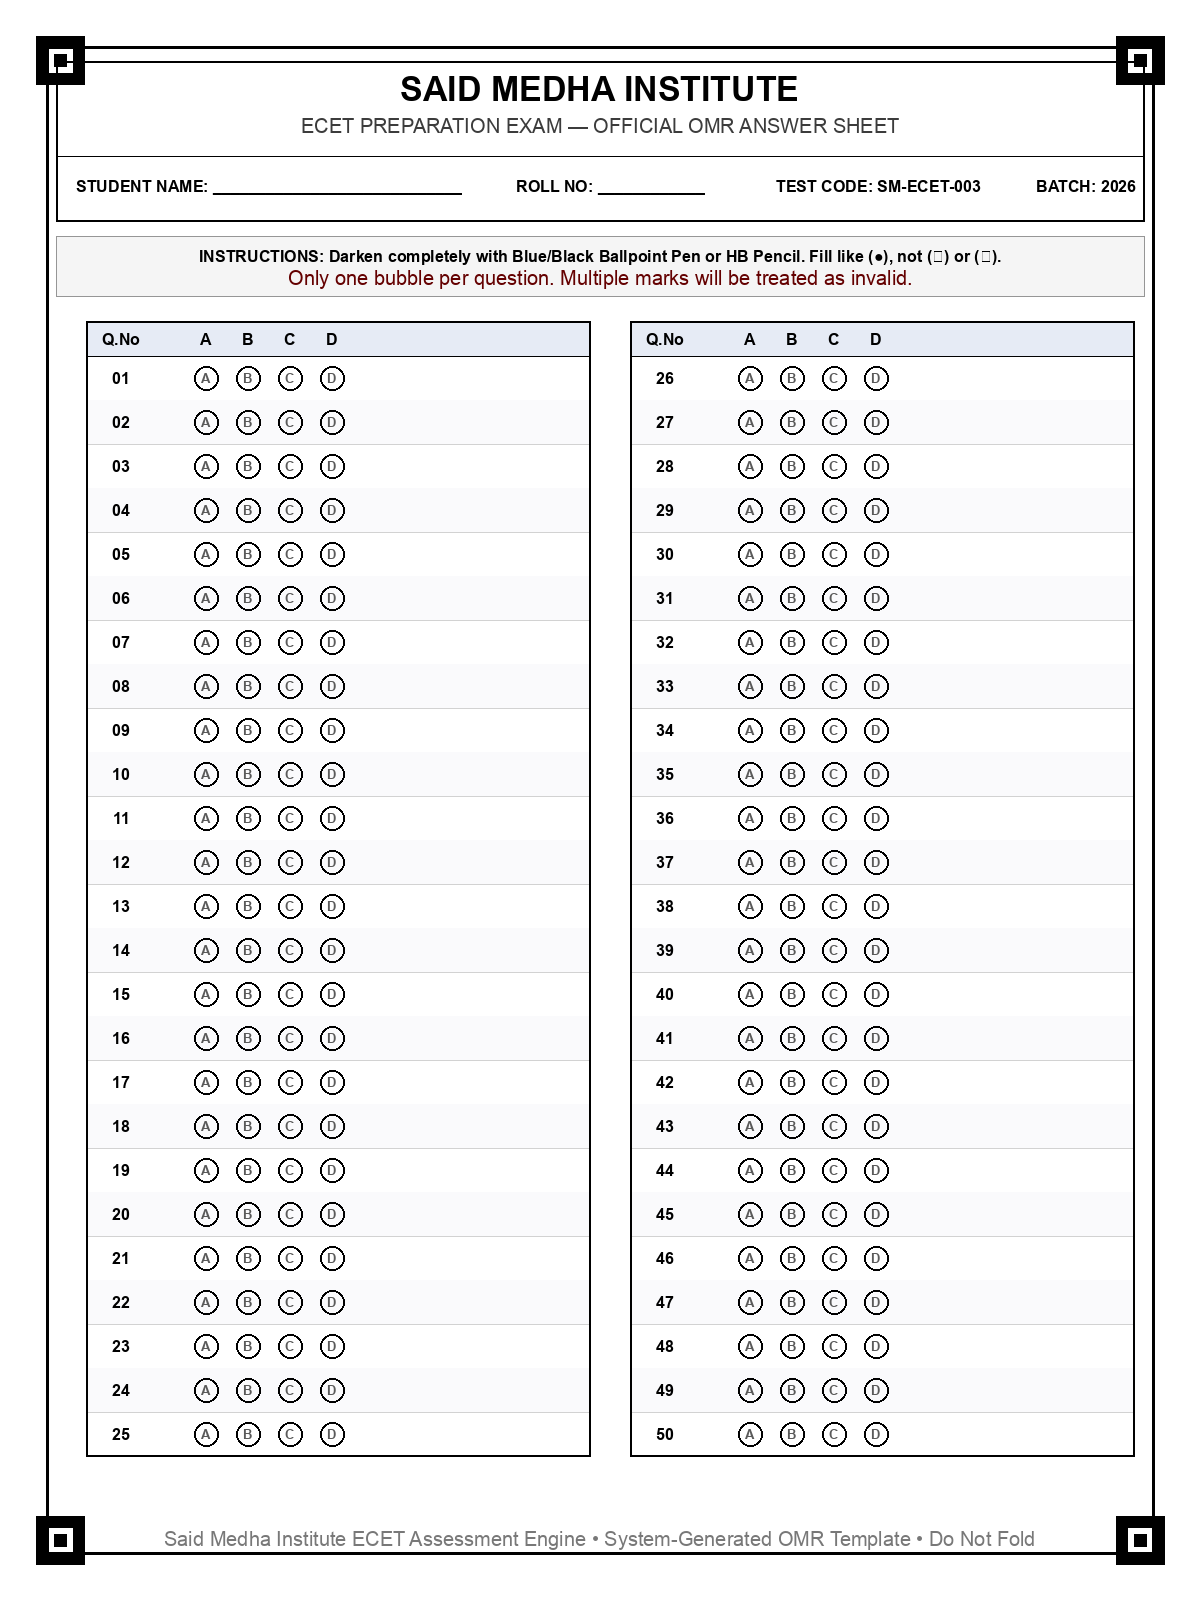
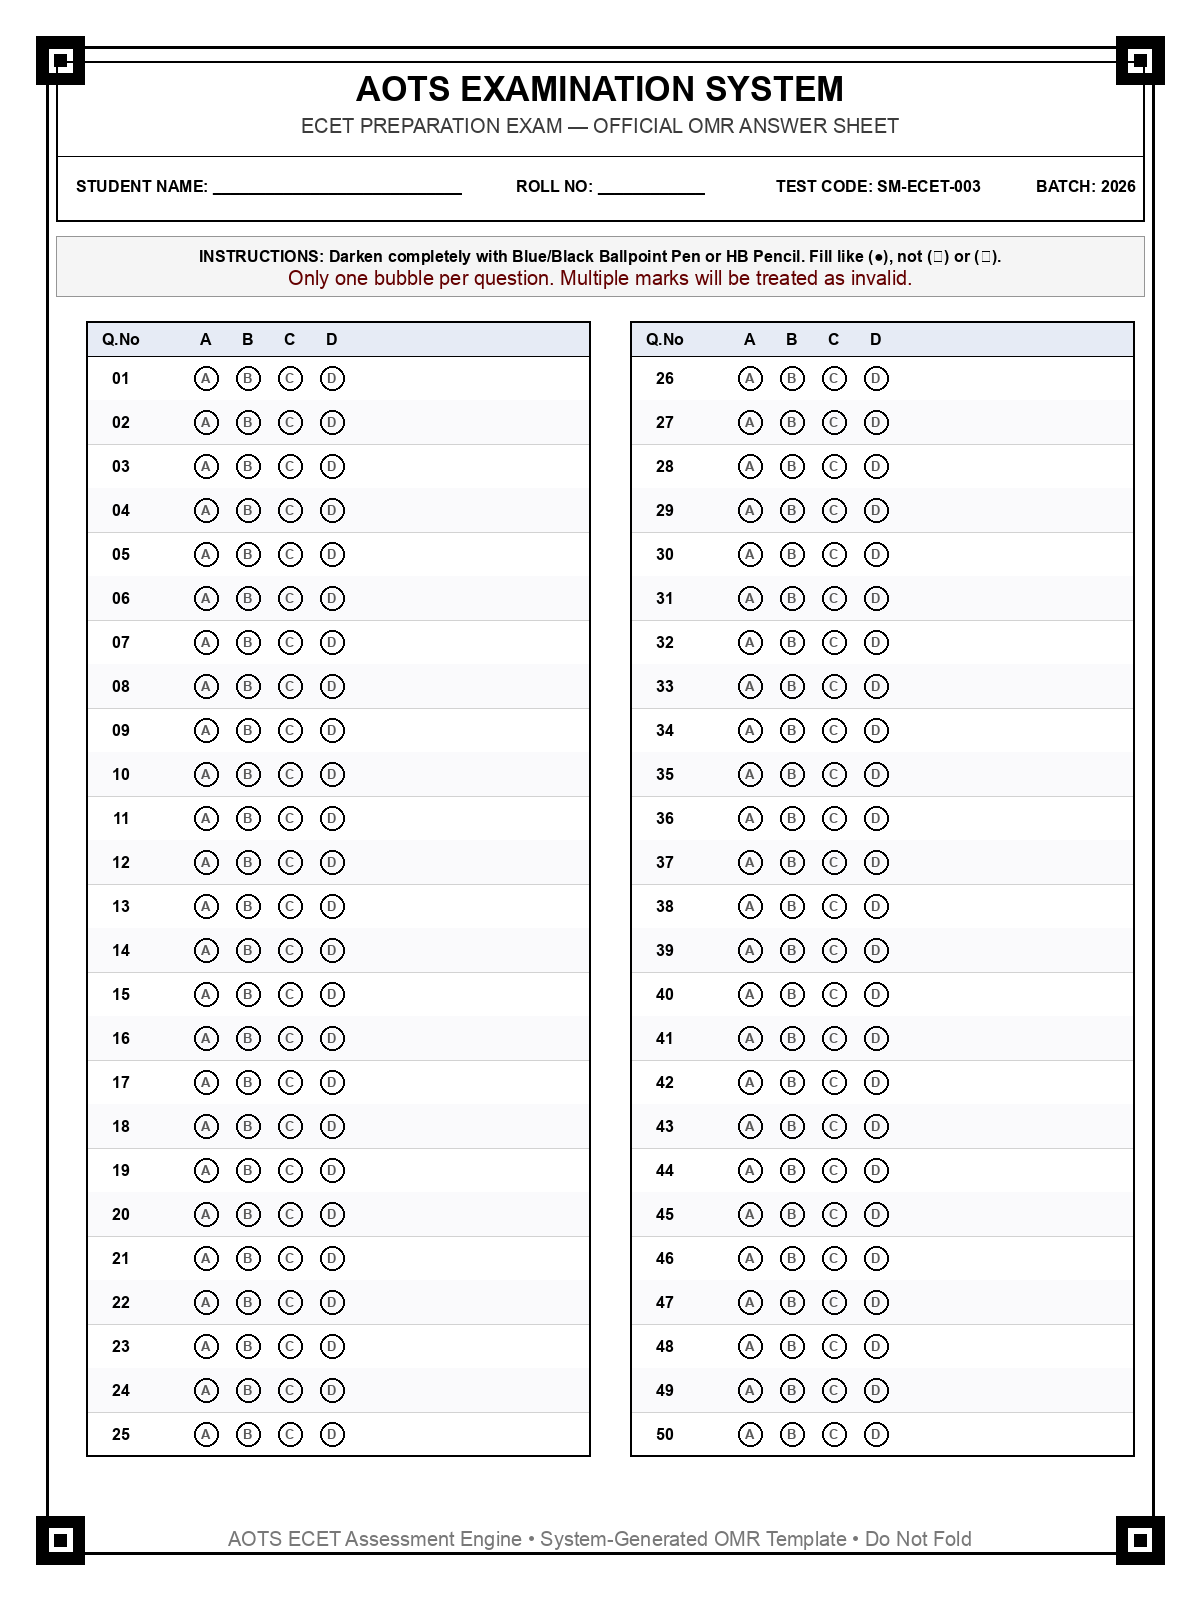
Update project branding from Sai Medha to AOTS across all modules

Changed region(s): [[0.1542, 0.9375, 0.8633, 0.9688], [0.3083, 0.0312, 0.7092, 0.0625]]

diff --git a/template_generator.py b/template_generator.py
@@ -1,5 +1,5 @@
 """
-Said Medha Institute - OMR Template & Layout Generator
+AOTS - OMR Template & Layout Generator
 Generates:
 1. template_spec.json (canonical coordinate map of all fiducials and bubbles)
 2. blank_omr.png (high-resolution standard printable OMR sheet)
@@ -69,7 +69,7 @@ def create_omr_template(output_dir: str = "."):
         font_q = ImageFont.load_default()
         font_opt = ImageFont.load_default()
         
-    draw.text((CANVAS_WIDTH // 2, header_top + 28), "SAID MEDHA INSTITUTE", fill=(0, 0, 0), font=font_title, anchor="mm")
+    draw.text((CANVAS_WIDTH // 2, header_top + 28), "AOTS EXAMINATION SYSTEM", fill=(0, 0, 0), font=font_title, anchor="mm")
     draw.text((CANVAS_WIDTH // 2, header_top + 65), "ECET PREPARATION EXAM — OFFICIAL OMR ANSWER SHEET", fill=(60, 60, 60), font=font_sub, anchor="mm")
     
     # Metadata fields in header
@@ -171,7 +171,7 @@ def create_omr_template(output_dir: str = "."):
     render_question_block(26, 50, col2_start_x)
 
     # Footer note
-    draw.text((CANVAS_WIDTH // 2, CANVAS_HEIGHT - corner_offset - 25), "Said Medha Institute ECET Assessment Engine • System-Generated OMR Template • Do Not Fold", fill=(120, 120, 120), font=font_sub, anchor="mm")
+    draw.text((CANVAS_WIDTH // 2, CANVAS_HEIGHT - corner_offset - 25), "AOTS ECET Assessment Engine • System-Generated OMR Template • Do Not Fold", fill=(120, 120, 120), font=font_sub, anchor="mm")
 
     # Save Template Image
     template_img_path = os.path.join(output_dir, "blank_omr.png")

diff --git a/grade_sheet.py b/grade_sheet.py
@@ -1,6 +1,6 @@
 """
-Said Medha Institute - Unified OMR Evaluation & Grading CLI (Phase 2)
-=====================================================================
+AOTS - Unified OMR Evaluation & Grading CLI (Phase 2)
+=====================================================
 Single-command end-to-end pipeline:
   Image Photo + Answer Key (or Encrypted Key) -> Instant Detailed Grading & Scorecard
 
@@ -29,7 +29,7 @@ def print_formatted_card(report: dict, student_view_only: bool = False):
     scheme = report["marking_scheme"]
 
     print("\n" + "=" * 70)
-    print("  SAID MEDHA INSTITUTE — ECET EXAMINATION SCORECARD")
+    print("  AOTS — EXAMINATION SCORECARD")
     print("=" * 70)
     print(f"  Student ID:     {report.get('student_id', 'N/A')}")
     print(f"  Test Code:      {report.get('test_code', 'N/A')}")
@@ -73,7 +73,7 @@ def print_formatted_card(report: dict, student_view_only: bool = False):
 
 def main():
     parser = argparse.ArgumentParser(
-        description="Said Medha Institute — End-to-End OMR Grading CLI"
+        description="AOTS — End-to-End OMR Grading CLI"
     )
     parser.add_argument("image", help="Path to the OMR sheet photo/image")
     parser.add_argument("--key-file", "-k", help="Path to answer key JSON file")

diff --git a/omr_engine.py b/omr_engine.py
@@ -1,12 +1,6 @@
 """
-Said Medha Institute - Core OMR Engine (Phase 1) — v2 REWRITE
-==============================================================
-Fixed critical issues from v1:
-  1. Fiducial detection was finding wrong contours → degenerate warp → all black
-  2. Now uses smart dual-path: skip warp for matching-size images, robust
-     quadrant-based marker search for real photos
-  3. Improved threshold handling for white-background OMR sheets
-
+AOTS - Core OMR Engine (Phase 1)
+================================
 6-Stage Computer Vision Pipeline:
   Stage 1: Image Quality Validation (blur, exposure)
   Stage 2: Sheet Alignment (auto-detect if warp needed, fiducial-based warp)
@@ -627,7 +621,7 @@ def process_omr_sheet(
 
 def main():
     parser = argparse.ArgumentParser(
-        description="Said Medha Institute — OMR Sheet Evaluation Engine v2"
+        description="AOTS — OMR Sheet Evaluation Engine"
     )
     parser.add_argument("image", help="Path to the OMR sheet image")
     parser.add_argument(

diff --git a/evaluate_engine.py b/evaluate_engine.py
@@ -1,6 +1,6 @@
 """
-Said Medha Institute - OMR Engine Accuracy Evaluator
-=====================================================
+AOTS - OMR Engine Accuracy Evaluator
+====================================
 Runs the OMR engine against all test samples and compares
 with ground truth to produce an accuracy report.
 
@@ -101,7 +101,7 @@ def run_evaluation(test_dir: str = "test_samples",
         manifest = json.load(f)
     
     print("=" * 70)
-    print("  Said Medha OMR Engine — Accuracy Evaluation Report")
+    print("  AOTS OMR Engine — Accuracy Evaluation Report")
     print("=" * 70)
     print()
     

diff --git a/test_scoring.py b/test_scoring.py
@@ -1,6 +1,6 @@
 """
-Said Medha Institute - Comprehensive Scoring & Integration Test Suite (Phase 2)
-================================================================================
+AOTS - Comprehensive Scoring & Integration Test Suite (Phase 2)
+================================================================
 Verifies:
 1. Answer key encryption/decryption round-trip
 2. Marking scheme math (positive marks, negative marks, multiple marks penalties)

diff --git a/scoring_engine.py b/scoring_engine.py
@@ -1,6 +1,6 @@
 """
-Said Medha Institute - Scoring & Answer Key Engine (Phase 2)
-============================================================
+AOTS - Scoring & Answer Key Engine (Phase 2)
+============================================
 Handles:
 1. Answer key schema validation & tamper-evident Fernet encryption
 2. Flexible marking schemes (positive marks, negative marking, multiple marks policy)

diff --git a/test_sample_generator.py b/test_sample_generator.py
@@ -1,6 +1,6 @@
 """
-Said Medha Institute - OMR Test Sample Generator
-=================================================
+AOTS - OMR Test Sample Generator
+================================
 Generates synthetic filled OMR sheets for testing the engine.
 
 Creates multiple test scenarios:

diff --git a/OMR_ENGINE_SPECIFICATION.md b/OMR_ENGINE_SPECIFICATION.md
@@ -1,10 +1,10 @@
-# 📄 Said Medha Institute — OMR Evaluation System
+# 📄 AOTS — OMR Evaluation System
 ## System Architecture, CV Pipeline & Phase-1 Engine Specification
 
 ---
 
 ## 🎯 Executive Summary & Mission
-**Said Medha Institute** conducts ECET competitive exam coaching. Currently, teachers manually evaluate paper OMR sheets using answer keys and pens, leading to delayed results, human grading fatigue, and lack of actionable student analytics.
+**AOTS (Automated Optical Testing System)** conducts ECET competitive exam evaluations. Currently, teachers manually evaluate paper OMR sheets using answer keys and pens, leading to delayed results, human grading fatigue, and lack of actionable student analytics.
 
 ### The Objective
 Build a robust, accurate, and automated OMR evaluation platform. 
@@ -110,7 +110,7 @@ The computer vision engine transforms an arbitrary, perspective-distorted smartp
 
 #### 4. Stage 4 — Bubble Location & Coordinate Grid System
 * **Coordinate Mapping Strategy**: **Deterministic Layout Grid** (Approach B).
-* Since Said Medha uses a fixed, standardized sheet layout, every bubble is defined as a normalized relative bounding box:
+* Since AOTS uses a fixed, standardized sheet layout, every bubble is defined as a normalized relative bounding box:
   $$\text{Bubble}(Q_i, \text{Opt}_j) = [X_{\text{rel}}, Y_{\text{rel}}, W_{\text{rel}}, H_{\text{rel}}]$$
 * **Grid Structure (Example for 50 Questions, 4 Options A/B/C/D)**:
   * **Column 1**: Questions 1 to 25
@@ -203,7 +203,7 @@ The computer vision engine transforms an arbitrary, perspective-distorted smartp
 │
 └── PHASE 5 ────────────────── Analytics, Export & Live Deployment
     ├── Step 5.1: Question Difficulty & Distractor Analysis
-    └── Step 5.2: Excel/PDF Export for Said Medha Institute
+    └── Step 5.2: Excel/PDF Export for AOTS Platform
 ```
 
 ---

diff --git a/README.md b/README.md
@@ -1,6 +1,6 @@
-# 📄 Said Medha Institute — High-Precision OMR Evaluation Engine
+# 📄 AOTS — High-Precision OMR Evaluation Engine
 
-Automated Optical Mark Recognition (OMR) assessment engine built for **Said Medha Institute** ECET mock examinations. Evaluates smartphone photos of filled OMR sheets with **100% detection accuracy**, sub-30ms processing latency, and tamper-evident answer key encryption.
+Automated Optical Mark Recognition (OMR) assessment engine built for **AOTS** ECET mock examinations. Evaluates smartphone photos of filled OMR sheets with **100% detection accuracy**, sub-30ms processing latency, and tamper-evident answer key encryption.
 
 ---
 
@@ -88,4 +88,4 @@ python3 test_scoring.py
 ---
 
 ## 📄 License
-Internal proprietary assessment platform for Said Medha Institute.
+Internal proprietary assessment platform for AOTS.
